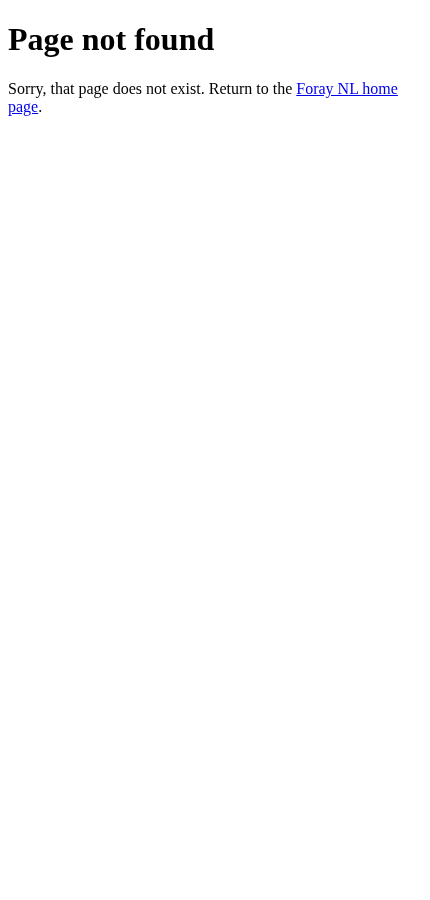
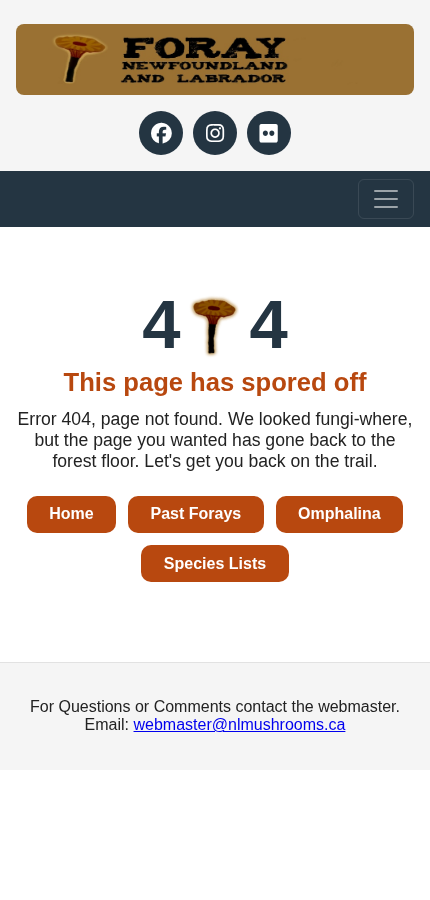
feat(404): styled 404 page on the shared layout
Use the shared head, header, nav and footer with the Foray NL mushroom as the 0, a pun headline
and links back to the main sections. base href keeps links working at any URL depth.

diff --git a/404.html b/404.html
@@ -1,15 +1,146 @@
 <!DOCTYPE html>
 <html lang="en">
 <head>
-  <meta charset="utf-8">
+  <meta charset="UTF-8">
   <meta name="viewport" content="width=device-width, initial-scale=1">
-  <title>Page not found | Foray NL</title>
+  <!-- Netlify serves this page for missing URLs at any depth, so resolve every relative link from the site root. -->
+  <base href="/">
+  <title>Page not found | Foray Newfoundland and Labrador</title>
   <meta name="robots" content="noindex">
+  <!-- layout:head -->
+  <!-- Google tag (gtag.js) -->
+  <script async src="https://www.googletagmanager.com/gtag/js?id=G-JSEZXHQW0T"></script>
+  <script>
+    window.dataLayer = window.dataLayer || [];
+    function gtag(){dataLayer.push(arguments);}
+    gtag('js', new Date());
+
+    gtag('config', 'G-JSEZXHQW0T');
+  </script>
+  <link rel="apple-touch-icon" sizes="180x180" href="/apple-touch-icon.png">
+  <link rel="icon" type="image/png" sizes="32x32" href="/favicon-32x32.png">
+  <link rel="icon" type="image/png" sizes="16x16" href="/favicon-16x16.png">
+  <link rel="manifest" href="/site.webmanifest">
+  <link rel="stylesheet" href="assets/vendor/bootstrap/bootstrap-nav.css?v=f0215bb4f9">
+  <link rel="stylesheet" href="assets/styles/site.css?v=837076d82d">
+  <link rel="stylesheet" href="assets/vendor/fontawesome/fontawesome-social.css?v=2b50b7463a">
+  <script defer src="assets/vendor/bootstrap/bootstrap.bundle.min.js?v=0833b2e9c3"></script>
+  <script defer src="assets/scripts/site.js?v=5617f2975f"></script>
+  <!-- /layout:head -->
 </head>
 <body>
-  <main>
-    <h1>Page not found</h1>
-    <p>Sorry, that page does not exist. Return to the <a href="/">Foray NL home page</a>.</p>
+  <!-- layout:header -->
+  <header>
+    <img src="_wp_generated/wp1da48039_05_06.jpg" alt="Foray NL Logo Banner">
+    <nav class="social-links" aria-label="Foray NL on social media">
+      <ul>
+        <li><a class="social-link" href="https://www.facebook.com/ForayNL" target="_blank" rel="noopener noreferrer" data-bs-toggle="tooltip" data-bs-placement="bottom" title="Facebook: ForayNL" aria-label="Facebook: ForayNL (opens in a new tab)"><i class="fa-brands fa-facebook" aria-hidden="true"></i></a></li>
+        <li><a class="social-link" href="https://www.instagram.com/foraynl/" target="_blank" rel="noopener noreferrer" data-bs-toggle="tooltip" data-bs-placement="bottom" title="Instagram: @foraynl" aria-label="Instagram: @foraynl (opens in a new tab)"><i class="fa-brands fa-instagram" aria-hidden="true"></i></a></li>
+        <li><a class="social-link" href="https://www.flickr.com/photos/foray_nl/" target="_blank" rel="noopener noreferrer" data-bs-toggle="tooltip" data-bs-placement="bottom" title="Flickr: foray_nl" aria-label="Flickr: foray_nl (opens in a new tab)"><i class="fa-brands fa-flickr" aria-hidden="true"></i></a></li>
+      </ul>
+    </nav>
+
+  </header>
+  <!-- /layout:header -->
+  <!-- layout:nav -->
+  <nav class="navbar navbar-expand-lg navbar-dark" aria-label="Main navigation">
+    <button class="navbar-toggler" type="button" data-bs-toggle="collapse" data-bs-target="#siteNav" aria-controls="siteNav" aria-expanded="false" aria-label="Toggle navigation">
+      <span class="navbar-toggler-icon"></span>
+    </button>
+    <div class="collapse navbar-collapse justify-content-center" id="siteNav">
+      <ul class="navbar-nav">
+        <li class="nav-item"><a class="nav-link" href="index.html">Home</a></li>
+        <li class="nav-item"><a class="nav-link" href="foray_2026.html">Foray 2026</a></li>
+        <li class="nav-item dropdown">
+          <button class="nav-link dropdown-toggle" type="button" data-bs-toggle="dropdown" aria-expanded="false">Past Forays</button>
+          <ul class="dropdown-menu">
+            <li><a class="dropdown-item" href="past_forays.html">Past Forays</a></li>
+            <li><hr class="dropdown-divider"></li>
+            <li><a class="dropdown-item" href="foray_reports_all.html">Foray Reports</a></li>
+          </ul>
+        </li>
+        <li class="nav-item dropdown">
+          <button class="nav-link dropdown-toggle" type="button" data-bs-toggle="dropdown" aria-expanded="false">Species List</button>
+          <ul class="dropdown-menu">
+            <li><a class="dropdown-item" href="species_list_explanations.html">Species List</a></li>
+            <li><hr class="dropdown-divider"></li>
+            <li><a class="dropdown-item" href="species_lists.html">Omphalina Indices</a></li>
+            <li><a class="dropdown-item" href="species_list_by_foray.html">Cumulative and Foray Species List</a></li>
+            <li><a class="dropdown-item" href="flickr_image_index.html">Flickr Images</a></li>
+            <li><a class="dropdown-item" href="flickr_voucher_images.html">Phyla/Genera Images</a></li>
+          </ul>
+        </li>
+        <li class="nav-item dropdown">
+          <button class="nav-link dropdown-toggle" type="button" data-bs-toggle="dropdown" aria-expanded="false">Omphalina</button>
+          <ul class="dropdown-menu">
+            <li><a class="dropdown-item" href="omphalina.html">Omphalina</a></li>
+            <li><hr class="dropdown-divider"></li>
+            <li><a class="dropdown-item" href="search.html">Search Back Issues</a></li>
+            <li><a class="dropdown-item" href="current_issue.html">Current Issue</a></li>
+            <li><hr class="dropdown-divider"></li>
+            <li><a class="dropdown-item" href="omphalina_2021.html">Vol 12, 2021</a></li>
+            <li><a class="dropdown-item" href="omphalina_2020.html">Vol 11, 2020</a></li>
+            <li><a class="dropdown-item" href="omphalina_2019.html">Vol 10, 2019</a></li>
+            <li><a class="dropdown-item" href="omphalina_2018.html">Vol 9, 2018</a></li>
+            <li><a class="dropdown-item" href="omphalina_2017.html">Vol 8, 2017</a></li>
+            <li><a class="dropdown-item" href="omphalina_2016.html">Vol 7, 2016</a></li>
+            <li><a class="dropdown-item" href="omphalina_2015.html">Vol 6, 2015</a></li>
+            <li><a class="dropdown-item" href="omphalina_2014.html">Vol 5, 2014</a></li>
+            <li><a class="dropdown-item" href="omphalina_2013.html">Vol 4, 2013</a></li>
+            <li><a class="dropdown-item" href="omphalina_2012.html">Vol 3, 2012</a></li>
+            <li><a class="dropdown-item" href="omphalina_2011.html">Vol 2, 2011</a></li>
+            <li><a class="dropdown-item" href="omphalina_2010.html">Vol 1, 2010</a></li>
+            <li><hr class="dropdown-divider"></li>
+            <li><a class="dropdown-item" href="submission_guidelines.html">Submission Guidelines</a></li>
+          </ul>
+        </li>
+        <li class="nav-item"><a class="nav-link" href="science.html">Science</a></li>
+        <li class="nav-item dropdown">
+          <button class="nav-link dropdown-toggle" type="button" data-bs-toggle="dropdown" aria-expanded="false">Resources</button>
+          <ul class="dropdown-menu">
+            <li><a class="dropdown-item" href="resources.html">Resources</a></li>
+            <li><hr class="dropdown-divider"></li>
+            <li><a class="dropdown-item" href="articles_fungi_magazine.html">Fungi</a></li>
+            <li><a class="dropdown-item" href="mycophyle_articles.html">Mycophile</a></li>
+            <li><a class="dropdown-item" href="facebook_links.html">Facebook</a></li>
+            <li><a class="dropdown-item" href="osprey.html">Osprey</a></li>
+            <li><a class="dropdown-item" href="fungal_websites.html">Fungal Websites</a></li>
+          </ul>
+        </li>
+        <li class="nav-item dropdown">
+          <button class="nav-link dropdown-toggle" type="button" data-bs-toggle="dropdown" aria-expanded="false">About Us</button>
+          <ul class="dropdown-menu">
+            <li><a class="dropdown-item" href="about_us.html">About Us</a></li>
+            <li><hr class="dropdown-divider"></li>
+            <li><a class="dropdown-item" href="contacts.html">Contacts</a></li>
+            <li><a class="dropdown-item" href="mission.html">Mission</a></li>
+            <li><a class="dropdown-item" href="board.html">Board</a></li>
+            <li><a class="dropdown-item" href="bylaws.html">By Laws</a></li>
+            <li><a class="dropdown-item" href="consultants.html">Consultants</a></li>
+          </ul>
+        </li>
+        <li class="nav-item"><a class="nav-link" href="membership.html">Membership</a></li>
+      </ul>
+    </div>
+  </nav>
+  <!-- /layout:nav -->
+  <main class="page not-found">
+    <p class="not-found-code" aria-hidden="true">4<img src="android-chrome-192x192.png" alt="" width="96" height="96">4</p>
+    <h1>This page has spored off</h1>
+    <p class="not-found-lead">Error 404, page not found. We looked fungi-where, but the page you wanted has gone back to the forest floor. Let's get you back on the trail.</p>
+    <ul class="not-found-links">
+      <li><a class="not-found-btn" href="index.html">Home</a></li>
+      <li><a class="not-found-btn" href="past_forays.html">Past Forays</a></li>
+      <li><a class="not-found-btn" href="omphalina.html">Omphalina</a></li>
+      <li><a class="not-found-btn" href="species_list_explanations.html">Species Lists</a></li>
+    </ul>
   </main>
+  <!-- layout:footer -->
+  <footer>
+    <p>For Questions or Comments contact the webmaster.<br>
+      Email: <a href="mailto:webmaster@nlmushrooms.ca">webmaster@nlmushrooms.ca</a>
+    </p>
+  </footer>
+  <!-- /layout:footer -->
 </body>
 </html>

diff --git a/assets/styles/site.css b/assets/styles/site.css
@@ -342,3 +342,12 @@ body > .page-breadcrumb + main { margin-top: 0.5rem; }
 .flickr-samples img, .flickr-tiles img, .flickr-genera { max-width: 100%; height: auto; }
 .flickr-tiles { list-style: none; margin: 0 0 1.5rem; padding: 0; display: flex; flex-wrap: wrap; gap: 1rem; }
 @media (min-width: 900px) { .flickr-index { grid-template-columns: 1fr auto 1fr; } .flickr-samples { flex-direction: column; flex-wrap: nowrap; } }
+/* 404 page */
+main.not-found { display: block; text-align: center; padding: 2rem 1rem 3rem; }
+.not-found-code { margin: 0; font-size: clamp(4rem, 16vw, 8rem); font-weight: 800; line-height: 1; color: #243542; display: flex; align-items: center; justify-content: center; gap: 0.05em; }
+.not-found-code img { width: 0.9em; height: 0.9em; transform: rotate(-8deg); }
+main.not-found h1 { margin: 0.5rem 0 0.75rem; font-size: clamp(1.6rem, 5vw, 2.4rem); color: #b8480f; }
+.not-found-lead { max-width: 34rem; margin: 0 auto 1.5rem; font-size: 1.1em; }
+.not-found-links { list-style: none; margin: 0; padding: 0; display: flex; flex-wrap: wrap; gap: 0.75rem; justify-content: center; }
+main.not-found a.not-found-btn { display: inline-block; padding: 0.6em 1.4em; border-radius: 10px; background: #b8480f; color: #fff; font-weight: 600; text-decoration: none; }
+main.not-found a.not-found-btn:hover, main.not-found a.not-found-btn:focus-visible { background: #243542; color: #fff; }

diff --git a/about_us.html b/about_us.html
@@ -107,7 +107,7 @@
   <link rel="icon" type="image/png" sizes="16x16" href="/favicon-16x16.png">
   <link rel="manifest" href="/site.webmanifest">
   <link rel="stylesheet" href="assets/vendor/bootstrap/bootstrap-nav.css?v=f0215bb4f9">
-  <link rel="stylesheet" href="assets/styles/site.css?v=43806d3441">
+  <link rel="stylesheet" href="assets/styles/site.css?v=837076d82d">
   <link rel="stylesheet" href="assets/vendor/fontawesome/fontawesome-social.css?v=2b50b7463a">
   <script defer src="assets/vendor/bootstrap/bootstrap.bundle.min.js?v=0833b2e9c3"></script>
   <script defer src="assets/scripts/site.js?v=5617f2975f"></script>

diff --git a/articles_fungi_magazine.html b/articles_fungi_magazine.html
@@ -113,7 +113,7 @@
   <link rel="icon" type="image/png" sizes="16x16" href="/favicon-16x16.png">
   <link rel="manifest" href="/site.webmanifest">
   <link rel="stylesheet" href="assets/vendor/bootstrap/bootstrap-nav.css?v=f0215bb4f9">
-  <link rel="stylesheet" href="assets/styles/site.css?v=43806d3441">
+  <link rel="stylesheet" href="assets/styles/site.css?v=837076d82d">
   <link rel="stylesheet" href="assets/vendor/fontawesome/fontawesome-social.css?v=2b50b7463a">
   <script defer src="assets/vendor/bootstrap/bootstrap.bundle.min.js?v=0833b2e9c3"></script>
   <script defer src="assets/scripts/site.js?v=5617f2975f"></script>

diff --git a/board.html b/board.html
@@ -113,7 +113,7 @@
   <link rel="icon" type="image/png" sizes="16x16" href="/favicon-16x16.png">
   <link rel="manifest" href="/site.webmanifest">
   <link rel="stylesheet" href="assets/vendor/bootstrap/bootstrap-nav.css?v=f0215bb4f9">
-  <link rel="stylesheet" href="assets/styles/site.css?v=43806d3441">
+  <link rel="stylesheet" href="assets/styles/site.css?v=837076d82d">
   <link rel="stylesheet" href="assets/vendor/fontawesome/fontawesome-social.css?v=2b50b7463a">
   <script defer src="assets/vendor/bootstrap/bootstrap.bundle.min.js?v=0833b2e9c3"></script>
   <script defer src="assets/scripts/site.js?v=5617f2975f"></script>

diff --git a/bylaws.html b/bylaws.html
@@ -113,7 +113,7 @@
   <link rel="icon" type="image/png" sizes="16x16" href="/favicon-16x16.png">
   <link rel="manifest" href="/site.webmanifest">
   <link rel="stylesheet" href="assets/vendor/bootstrap/bootstrap-nav.css?v=f0215bb4f9">
-  <link rel="stylesheet" href="assets/styles/site.css?v=43806d3441">
+  <link rel="stylesheet" href="assets/styles/site.css?v=837076d82d">
   <link rel="stylesheet" href="assets/vendor/fontawesome/fontawesome-social.css?v=2b50b7463a">
   <script defer src="assets/vendor/bootstrap/bootstrap.bundle.min.js?v=0833b2e9c3"></script>
   <script defer src="assets/scripts/site.js?v=5617f2975f"></script>

diff --git a/consultants.html b/consultants.html
@@ -113,7 +113,7 @@
   <link rel="icon" type="image/png" sizes="16x16" href="/favicon-16x16.png">
   <link rel="manifest" href="/site.webmanifest">
   <link rel="stylesheet" href="assets/vendor/bootstrap/bootstrap-nav.css?v=f0215bb4f9">
-  <link rel="stylesheet" href="assets/styles/site.css?v=43806d3441">
+  <link rel="stylesheet" href="assets/styles/site.css?v=837076d82d">
   <link rel="stylesheet" href="assets/vendor/fontawesome/fontawesome-social.css?v=2b50b7463a">
   <script defer src="assets/vendor/bootstrap/bootstrap.bundle.min.js?v=0833b2e9c3"></script>
   <script defer src="assets/scripts/site.js?v=5617f2975f"></script>

diff --git a/contacts.html b/contacts.html
@@ -113,7 +113,7 @@
   <link rel="icon" type="image/png" sizes="16x16" href="/favicon-16x16.png">
   <link rel="manifest" href="/site.webmanifest">
   <link rel="stylesheet" href="assets/vendor/bootstrap/bootstrap-nav.css?v=f0215bb4f9">
-  <link rel="stylesheet" href="assets/styles/site.css?v=43806d3441">
+  <link rel="stylesheet" href="assets/styles/site.css?v=837076d82d">
   <link rel="stylesheet" href="assets/vendor/fontawesome/fontawesome-social.css?v=2b50b7463a">
   <script defer src="assets/vendor/bootstrap/bootstrap.bundle.min.js?v=0833b2e9c3"></script>
   <script defer src="assets/scripts/site.js?v=5617f2975f"></script>

diff --git a/current_issue.html b/current_issue.html
@@ -113,7 +113,7 @@
   <link rel="icon" type="image/png" sizes="16x16" href="/favicon-16x16.png">
   <link rel="manifest" href="/site.webmanifest">
   <link rel="stylesheet" href="assets/vendor/bootstrap/bootstrap-nav.css?v=f0215bb4f9">
-  <link rel="stylesheet" href="assets/styles/site.css?v=43806d3441">
+  <link rel="stylesheet" href="assets/styles/site.css?v=837076d82d">
   <link rel="stylesheet" href="assets/vendor/fontawesome/fontawesome-social.css?v=2b50b7463a">
   <script defer src="assets/vendor/bootstrap/bootstrap.bundle.min.js?v=0833b2e9c3"></script>
   <script defer src="assets/scripts/site.js?v=5617f2975f"></script>

diff --git a/facebook_links.html b/facebook_links.html
@@ -113,7 +113,7 @@
   <link rel="icon" type="image/png" sizes="16x16" href="/favicon-16x16.png">
   <link rel="manifest" href="/site.webmanifest">
   <link rel="stylesheet" href="assets/vendor/bootstrap/bootstrap-nav.css?v=f0215bb4f9">
-  <link rel="stylesheet" href="assets/styles/site.css?v=43806d3441">
+  <link rel="stylesheet" href="assets/styles/site.css?v=837076d82d">
   <link rel="stylesheet" href="assets/vendor/fontawesome/fontawesome-social.css?v=2b50b7463a">
   <script defer src="assets/vendor/bootstrap/bootstrap.bundle.min.js?v=0833b2e9c3"></script>
   <script defer src="assets/scripts/site.js?v=5617f2975f"></script>

diff --git a/flickr_image_index.html b/flickr_image_index.html
@@ -113,7 +113,7 @@
   <link rel="icon" type="image/png" sizes="16x16" href="/favicon-16x16.png">
   <link rel="manifest" href="/site.webmanifest">
   <link rel="stylesheet" href="assets/vendor/bootstrap/bootstrap-nav.css?v=f0215bb4f9">
-  <link rel="stylesheet" href="assets/styles/site.css?v=43806d3441">
+  <link rel="stylesheet" href="assets/styles/site.css?v=837076d82d">
   <link rel="stylesheet" href="assets/vendor/fontawesome/fontawesome-social.css?v=2b50b7463a">
   <script defer src="assets/vendor/bootstrap/bootstrap.bundle.min.js?v=0833b2e9c3"></script>
   <script defer src="assets/scripts/site.js?v=5617f2975f"></script>

diff --git a/flickr_voucher_images.html b/flickr_voucher_images.html
@@ -113,7 +113,7 @@
   <link rel="icon" type="image/png" sizes="16x16" href="/favicon-16x16.png">
   <link rel="manifest" href="/site.webmanifest">
   <link rel="stylesheet" href="assets/vendor/bootstrap/bootstrap-nav.css?v=f0215bb4f9">
-  <link rel="stylesheet" href="assets/styles/site.css?v=43806d3441">
+  <link rel="stylesheet" href="assets/styles/site.css?v=837076d82d">
   <link rel="stylesheet" href="assets/vendor/fontawesome/fontawesome-social.css?v=2b50b7463a">
   <script defer src="assets/vendor/bootstrap/bootstrap.bundle.min.js?v=0833b2e9c3"></script>
   <script defer src="assets/scripts/site.js?v=5617f2975f"></script>
